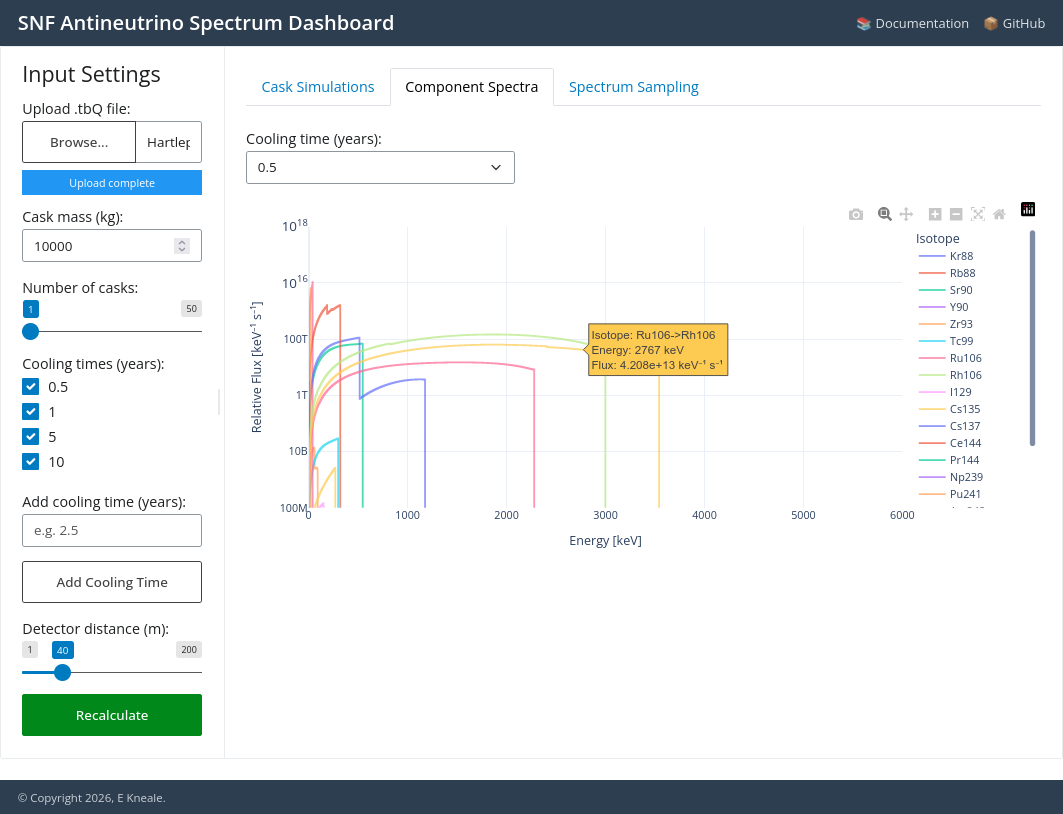
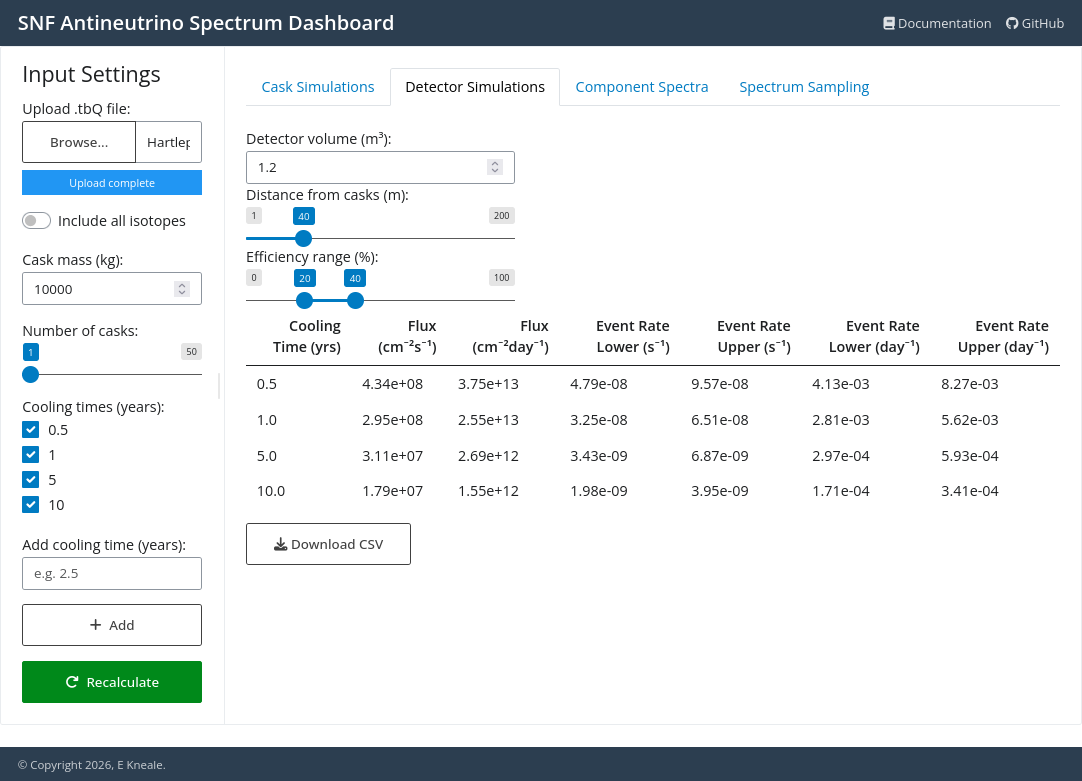
Update dashboard

diff --git a/src/snf_simulations/dashboard.py b/src/snf_simulations/dashboard.py
@@ -13,7 +13,8 @@ from shinywidgets import output_widget, render_widget
 
 from snf_simulations.cask import DEFAULT_ISOTOPES, Cask
 from snf_simulations.data import get_example_tbq_path
-from snf_simulations.physics import calculate_event_rate, calculate_flux_at_distance
+from snf_simulations.detector import Detector
+from snf_simulations.physics import calculate_flux_at_distance
 
 
 class SimInputs(TypedDict):
@@ -25,7 +26,6 @@ class SimInputs(TypedDict):
     n_casks: int
     cooling_times: list[float]
     all_isotopes: bool
-    detector_distance: float
 
 
 # Here we define the UI layout of the dashboard using Shiny's components.
@@ -184,14 +184,6 @@ app_ui = ui.page_fluid(
                 "Add",
                 icon=ui.tags.i({"class": "fa-solid fa-plus"}),
             ),
-            ui.input_slider(
-                "detector_distance",
-                "Detector distance (m):",
-                min=1,
-                max=200,
-                value=40,
-                step=1,
-            ),
             ui.input_action_button(
                 "recalculate",
                 "Recalculate",
@@ -202,6 +194,7 @@ app_ui = ui.page_fluid(
         ),
         # Tabs
         ui.navset_tab(
+            # Tab 1
             ui.nav_panel(
                 "Cask Simulations",
                 output_widget("plot_cask_simulations"),
@@ -210,13 +203,41 @@ app_ui = ui.page_fluid(
                     "  Download CSV",
                     icon=ui.tags.i({"class": "fa-solid fa-download"}),
                 ),
-                ui.output_table("table_cask_rates"),
+            ),
+            # Tab 2
+            ui.nav_panel(
+                "Detector Simulations",
+                ui.input_numeric(
+                    "detector_volume",
+                    "Detector volume (m³):",
+                    value=1.2,
+                    min=0.1,
+                    step=0.1,
+                ),
+                ui.input_slider(
+                    "detector_distance",
+                    "Distance from casks (m):",
+                    min=1,
+                    max=200,
+                    value=40,
+                    step=1,
+                ),
+                ui.input_slider(
+                    "detector_efficiency",
+                    "Efficiency range (%):",
+                    min=0,
+                    max=100,
+                    value=(20, 40),
+                    step=1,
+                ),
+                ui.output_table("table_detector_simulations"),
                 ui.download_button(
-                    "download_cask_rates",
+                    "download_detector_simulations",
                     "  Download CSV",
                     icon=ui.tags.i({"class": "fa-solid fa-download"}),
                 ),
             ),
+            # Tab 3
             ui.nav_panel(
                 "Component Spectra",
                 ui.input_select(
@@ -232,6 +253,7 @@ app_ui = ui.page_fluid(
                     icon=ui.tags.i({"class": "fa-solid fa-download"}),
                 ),
             ),
+            # Tab 4
             ui.nav_panel(
                 "Spectrum Sampling",
                 ui.input_select(
@@ -285,7 +307,6 @@ def server(input: Inputs, output: Outputs, session: Session) -> None:  # noqa: P
             "n_casks": 1,
             "cooling_times": [0.5, 1.0, 5.0, 10.0],
             "all_isotopes": False,
-            "detector_distance": 40.0,
         }
     )
 
@@ -336,7 +357,6 @@ def server(input: Inputs, output: Outputs, session: Session) -> None:  # noqa: P
             n_casks = int(input.n_casks())
             cooling_times = [float(t) for t in input.cooling_times()]
             all_isotopes = bool(input.all_isotopes())
-            detector_distance = float(input.detector_distance())
 
             snapshot: SimInputs = {
                 "filepath": filepath,
@@ -344,7 +364,6 @@ def server(input: Inputs, output: Outputs, session: Session) -> None:  # noqa: P
                 "cask_mass": cask_mass,
                 "n_casks": n_casks,
                 "cooling_times": cooling_times,
-                "detector_distance": detector_distance,
                 "all_isotopes": all_isotopes,
             }
             sim_inputs.set(snapshot)
@@ -565,8 +584,10 @@ def server(input: Inputs, output: Outputs, session: Session) -> None:  # noqa: P
             cask_simulations_data().to_csv(buffer, index=False)
             yield buffer.getvalue().decode()
 
+    # -----------------------------------------------------------------------
+    # Detector Simulations tab
     @reactive.calc
-    def cask_rates_data() -> pd.DataFrame:
+    def detector_simulations_data() -> pd.DataFrame:
         """Calculate fluxes and event rates for each cooling time."""
         cask = cask_reactive()
         if cask is None:
@@ -574,7 +595,12 @@ def server(input: Inputs, output: Outputs, session: Session) -> None:  # noqa: P
 
         params = sim_inputs()
         cooling_times = list(params["cooling_times"])
-        detector_distance = float(params["detector_distance"])
+        detector_volume = float(input.detector_volume())
+        detector_distance = float(input.detector_distance())
+        lower_efficiency, upper_efficiency = input.detector_efficiency()
+        lower_efficiency = float(lower_efficiency) / 100
+        upper_efficiency = float(upper_efficiency) / 100
+        detector = Detector(volume=detector_volume, proton_density=4.6e22)
 
         rows = []
         for cooling_time in cooling_times:
@@ -583,7 +609,16 @@ def server(input: Inputs, output: Outputs, session: Session) -> None:  # noqa: P
             flux_at_distance = calculate_flux_at_distance(
                 total_flux, distance=detector_distance
             )
-            rate_lower, rate_upper = calculate_event_rate(flux_at_distance, 0.2, 0.4)
+            rate_lower = detector.calculate_event_rate(
+                spec=spec,
+                distance=detector_distance,
+                efficiency=lower_efficiency,
+            )
+            rate_upper = detector.calculate_event_rate(
+                spec=spec,
+                distance=detector_distance,
+                efficiency=upper_efficiency,
+            )
             rows.append(
                 {
                     "cooling_time_yrs": cooling_time,
@@ -596,9 +631,9 @@ def server(input: Inputs, output: Outputs, session: Session) -> None:  # noqa: P
 
     @output
     @render.table
-    def table_cask_rates() -> pd.DataFrame:
-        """Table of flux and event rates for selected cask count and cooling times."""
-        df = cask_rates_data()
+    def table_detector_simulations() -> pd.DataFrame:
+        """Table of flux and event rates for selected detector parameters."""
+        df = detector_simulations_data()
 
         # Reformat the dataframe for display
         rows = []
@@ -620,11 +655,11 @@ def server(input: Inputs, output: Outputs, session: Session) -> None:  # noqa: P
             )
         return pd.DataFrame(rows)
 
-    @render.download(filename="cask_rates.csv")
-    def download_cask_rates() -> Iterable[bytes]:
-        """Download cask simulation rates table as CSV."""
+    @render.download(filename="detector_simulations.csv")
+    def download_detector_simulations() -> Iterable[bytes]:
+        """Download detector simulation data as CSV."""
         with BytesIO() as buffer:
-            cask_rates_data().to_csv(buffer, index=False)
+            detector_simulations_data().to_csv(buffer, index=False)
             yield buffer.getvalue().decode()
 
     # -----------------------------------------------------------------------

diff --git a/docs/user_guide/dashboard.md b/docs/user_guide/dashboard.md
@@ -12,24 +12,38 @@ This will start the dashboard server. To view the dashboard, open a web browser 
 
 ## Input Settings
 
-On the sidebar on the left, you can upload a FISPIN `.tbQ` file containing the isotope masses to include in the simulation (see  [the Cask documentation](cask.ipynb#creating-a-cask-from-a-fispin-simulation-file) for more details). You can also set the mass and number of casks to simulate, and the cooling times to consider. Cooling times can be selected using the checkboxes, and new cooling times can be added by typing a new value in the input box and clicking the "Add Cooling Time" button. Note that cooling times must be entered in years, and can't be less than the input time step of the simulation (see [the Cask documentation](cask.ipynb#simulating-the-spectrum-at-different-cooling-times) again for more details). Finally, the slider at the bottom can be used to set the distance of the simulated detector from the casks, which will affect the calculated fluxes.
+On the sidebar on the left, you can upload a FISPIN `.tbQ` file containing the isotope masses to include in the simulation (see  [the Cask documentation](cask.ipynb#creating-a-cask-from-a-fispin-simulation-file) for more details). On startup an example `.tbQ` file is loaded as a demonstration.
 
-By default an example `.tbQ` file is loaded on startup as a demonstration. Once the simulation settings are adjusted, click the "Recalculate" button to update the plots and results.
+:::{note}
+By default only 16 common isotopes are included in the simulation. The "Include all isotopes" toggle instead switches to including all isotopes in the input file, which is more computationally expensive. This only has an effect when a new file is uploaded, as the default example only includes the basic 16 isotopes.
+:::
+
+You can also set the mass and number of casks to simulate, and the cooling times to consider. Cooling times can be selected using the checkboxes, and new cooling times can be added by typing a new value in the input box and clicking the "Add Cooling Time" button. Note that cooling times must be entered in years, and can't be less than the input time step of the simulation (see [the Cask documentation](cask.ipynb#simulating-the-spectrum-at-different-cooling-times) again for more details).
+
+Once the simulation settings are adjusted, click the "Recalculate" button to update the plots and results.
 
 ## Cask Simulations tab
 
 ![Cask Simulations tab](../_static/dashboard1.png)
 
-The first tab to open shows the output of the cask simulation. The main plot will show the antineutrino spectrum at the selected cooling times. The table below shows the total flux in the simulated detector, along with calculated event rates.
+The first tab to open shows the output of the cask simulation. The main plot will show the antineutrino spectrum at the selected cooling times. A CSV file containing the plotted spectra can be downloaded using the button below.
+
+## Detector Simulations tab
+
+![Detector Simulations tab](../_static/dashboard2.png)
+
+The second tab runs a simulation of a detector observing the casks at the given cooling times. The detector volume, distance and efficiency bounds can be adjusted using the controls at the top. The table below shows the total flux in the simulated detector, along with calculated event rates.
 
 ## Component Spectra tab
 
-![Component Spectra tab](../_static/dashboard2.png)
+![Component Spectra tab](../_static/dashboard3.png)
 
-The second tab shows the spectra of the individual isotopes in the simulation, for the cooling time selected in the dropdown menu. This allows you to see which isotopes are contributing most to the overall spectrum at different cooling times. Note isotopes can be toggled on and off using the legend on the right of the plot, and hovering over the plot will show the isotope name and flux at that energy.
+The third tab shows the spectra of the individual isotopes in the simulation, for the cooling time selected in the dropdown menu. This allows you to see which isotopes are contributing most to the overall spectrum at different cooling times. Note isotopes can be toggled on and off using the legend on the right of the plot, and hovering over the plot will show the isotope name and flux at that energy.
+
+By default only the 16 most common isotopes are shown, but if the "Include all isotopes" toggle is enabled then all isotopes in the input file will be included in this plot.
 
 ## Spectrum Sampling tab
 
-![Spectrum Sampling tab](../_static/dashboard3.png)
+![Spectrum Sampling tab](../_static/dashboard4.png)
 
-The third tab runs a simulation of sampling the total spectrum at a given cooling time, with the number of samples entered using the slider. The simulated counts are shown on the plot, with the original spectrum overlaid for comparison.
+The final tab runs a simulation of sampling the total spectrum at a given cooling time, with the number of samples entered using the slider. The simulated counts are shown on the plot, with the original spectrum overlaid for comparison.